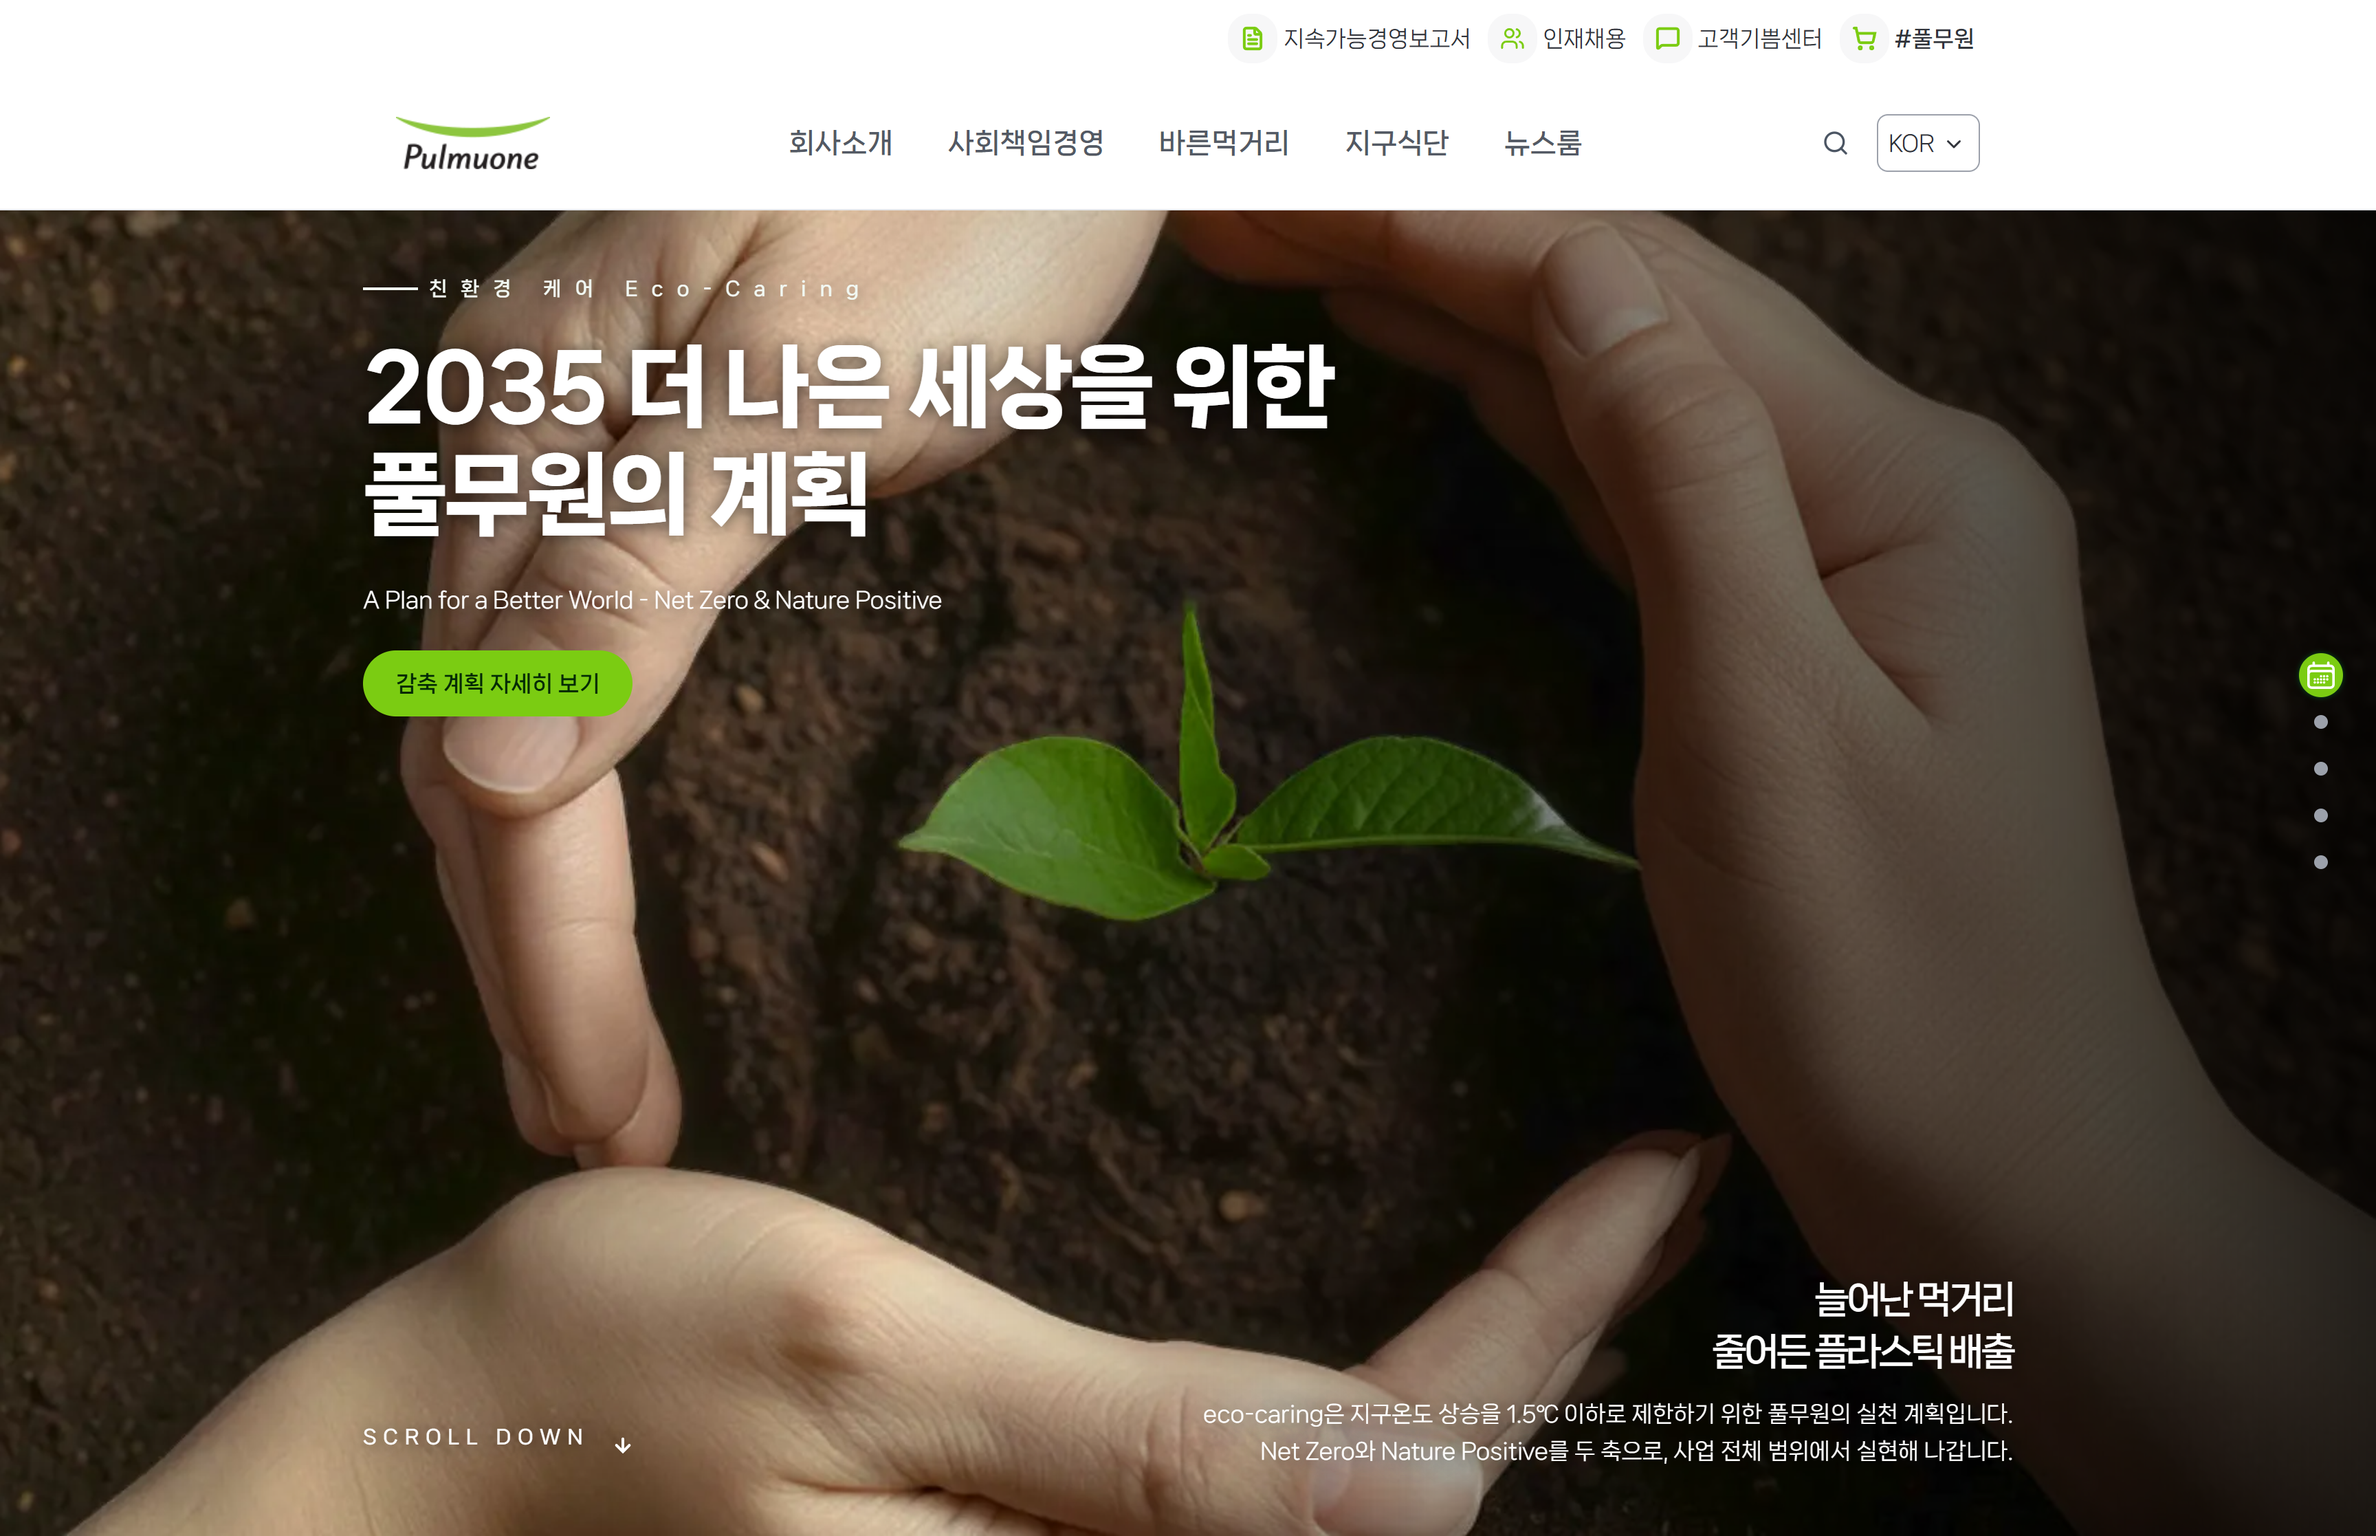
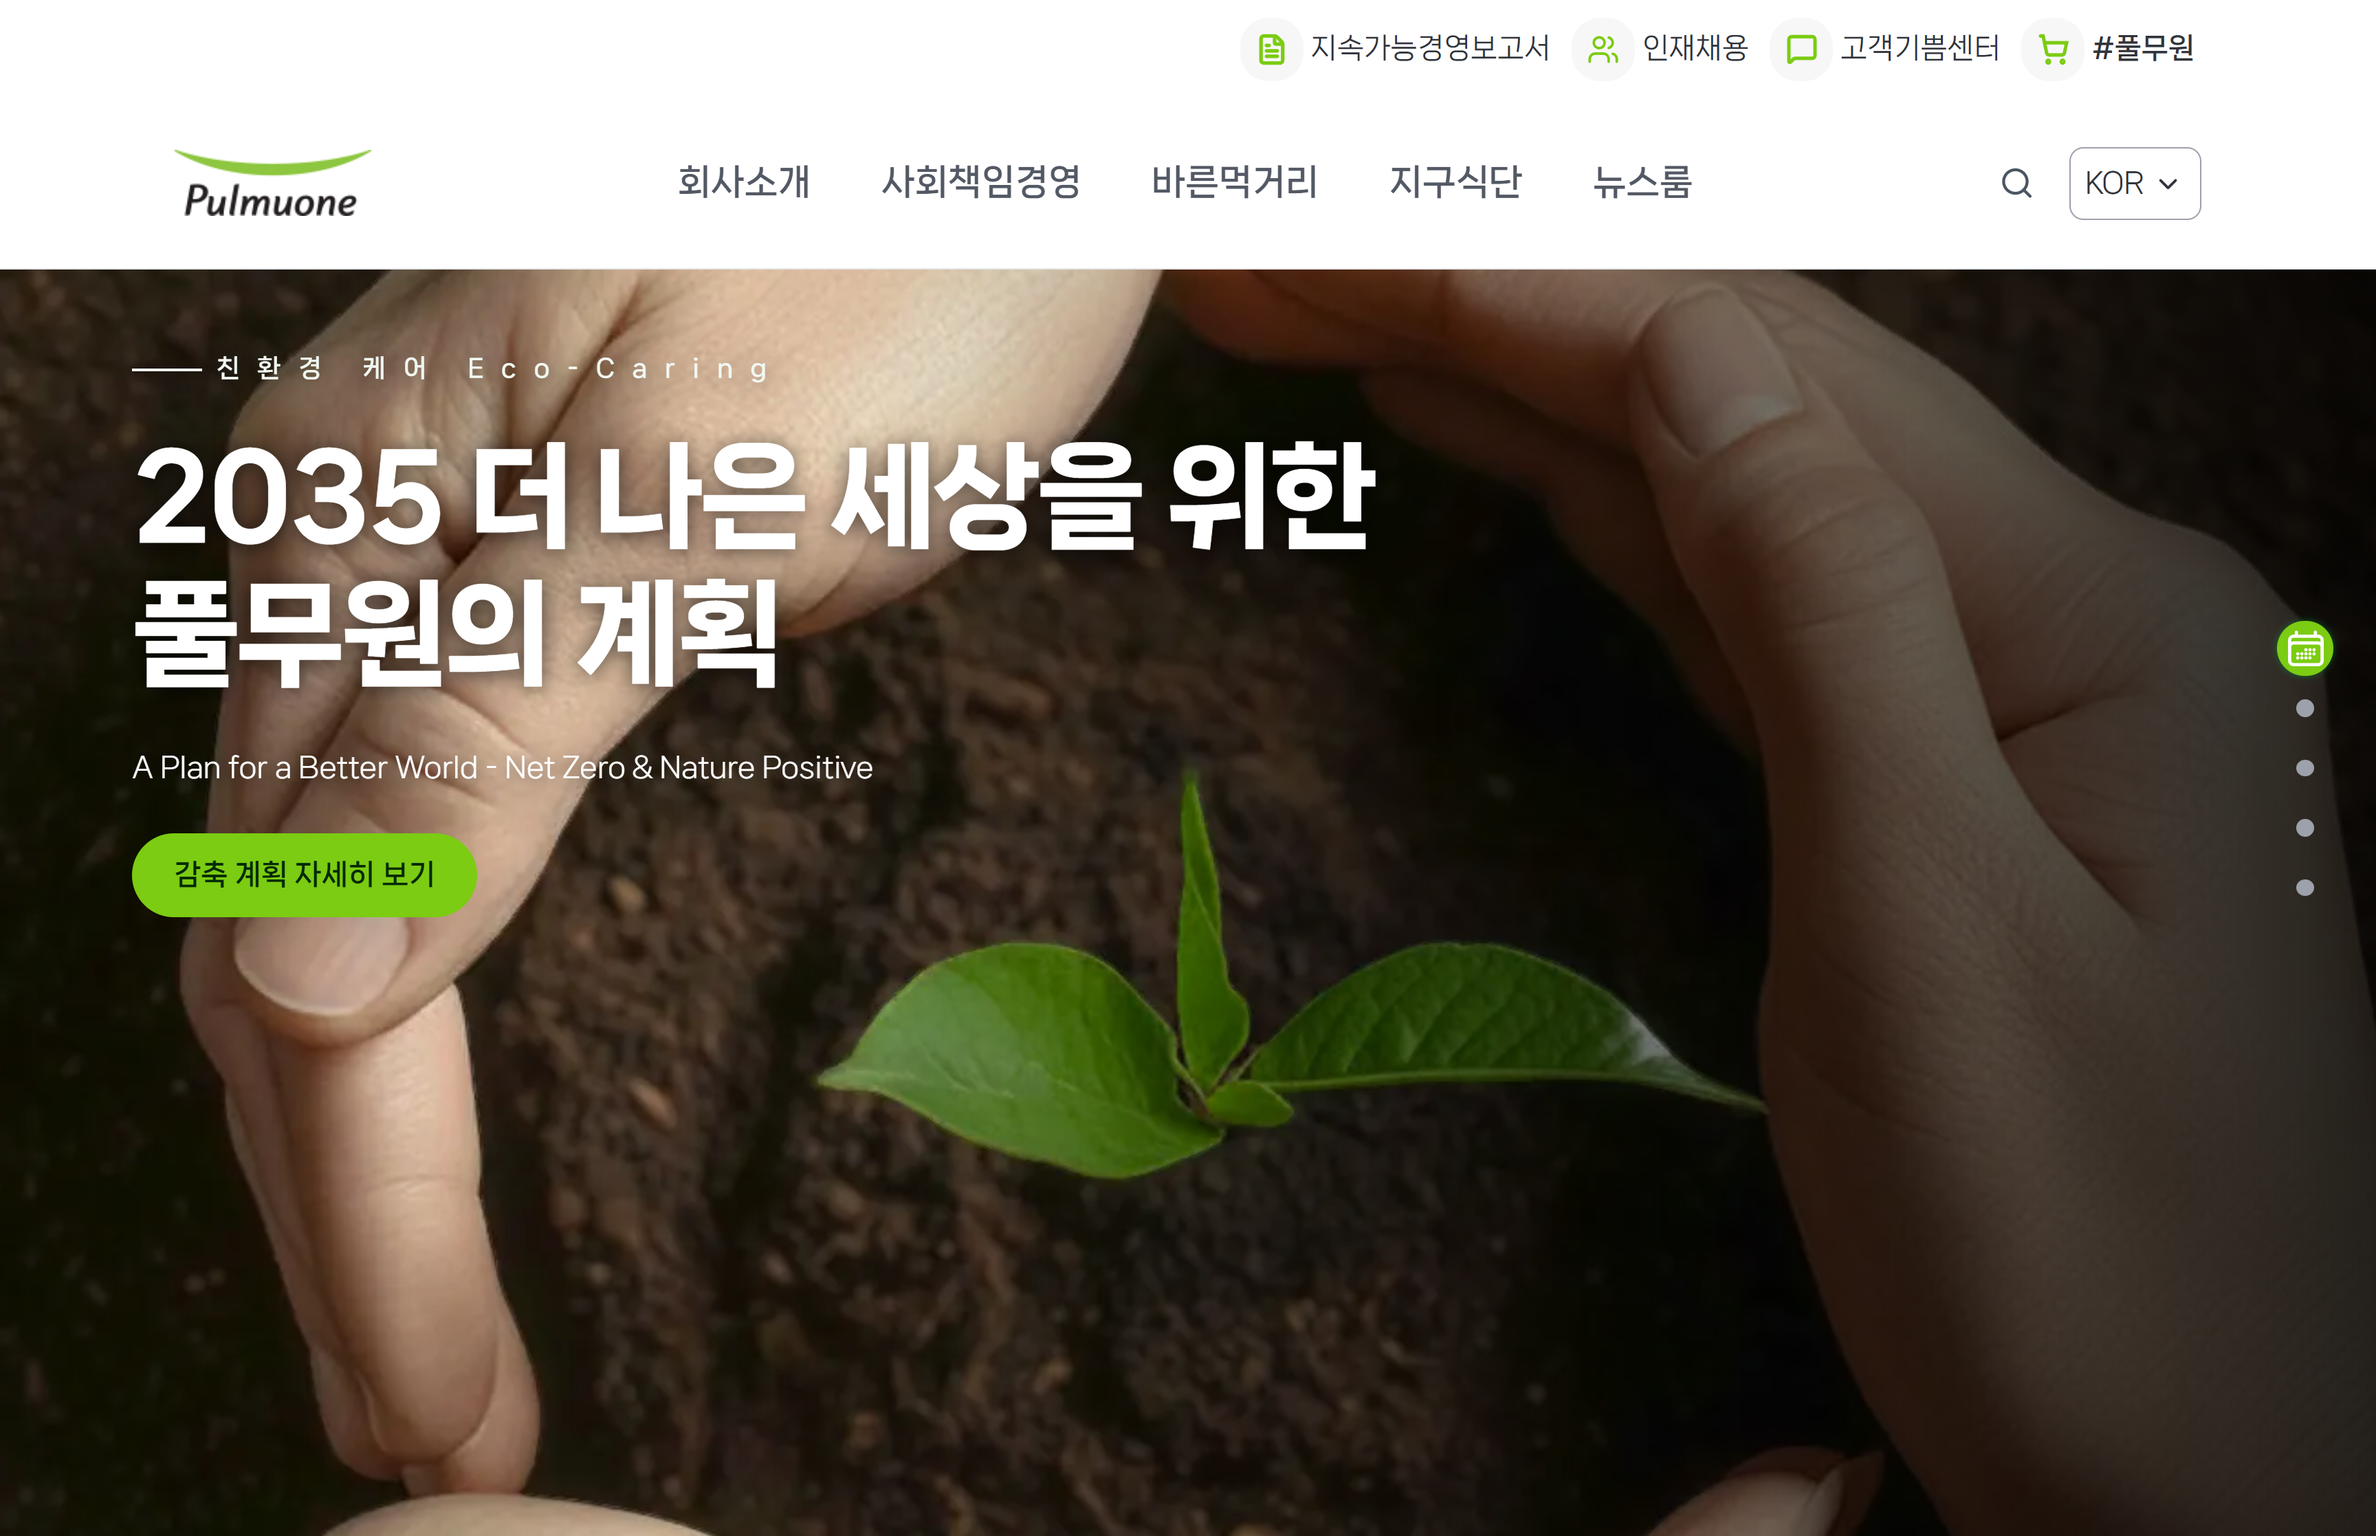
fix: improve Pulmuone thumbnail legibility

diff --git a/scripts/capture-pulmuone.spec.js b/scripts/capture-pulmuone.spec.js
@@ -2,7 +2,7 @@ const { test } = require('@playwright/test');
 
 const target = 'https://icerence.github.io/kiwik-project/';
 
-async function capture(page, viewport, output) {
+async function capture(page, viewport, output, zoom) {
   await page.setViewportSize(viewport);
   await page.goto(target, { waitUntil: 'networkidle' });
 
@@ -11,6 +11,9 @@ async function capture(page, viewport, output) {
     await closeButton.click();
   }
 
+  await page.evaluate((value) => {
+    document.documentElement.style.zoom = String(value);
+  }, zoom);
   await page.waitForTimeout(800);
   await page.screenshot({ path: output });
 }
@@ -18,6 +21,6 @@ async function capture(page, viewport, output) {
 test.use({ channel: 'chrome', deviceScaleFactor: 2 });
 
 test('capture clean responsive Pulmuone screens', async ({ page }) => {
-  await capture(page, { width: 1728, height: 1117 }, 'assets/images/pulmuone-desktop-screen.png');
-  await capture(page, { width: 393, height: 852 }, 'assets/images/pulmuone-mobile-screen.png');
+  await capture(page, { width: 1728, height: 1117 }, 'assets/images/pulmuone-desktop-screen.png', 1.28);
+  await capture(page, { width: 393, height: 852 }, 'assets/images/pulmuone-mobile-screen.png', 1.14);
 });

diff --git a/scripts/compose-pulmuone-mockup.py b/scripts/compose-pulmuone-mockup.py
@@ -57,8 +57,9 @@ device_mask_draw.rounded_rectangle((2930, 1330, 3890, 3190), radius=170, fill=25
 device_mask = device_mask.filter(ImageFilter.GaussianBlur(12))
 base = Image.composite(base, green_background, device_mask)
 
-# Keep the Figma frame's original 4000px export resolution so small UI text
-# remains sharp on high-density displays.
-base = base.convert("RGB")
+# Pre-size the thumbnail close to its real display density. A light unsharp
+# mask after downsampling keeps small UI labels from looking washed out.
+base = base.convert("RGB").resize((1600, 1600), Image.Resampling.LANCZOS)
+base = base.filter(ImageFilter.UnsharpMask(radius=0.8, percent=115, threshold=3))
 base.save(OUTPUT, "PNG", optimize=True)
 print(OUTPUT)
